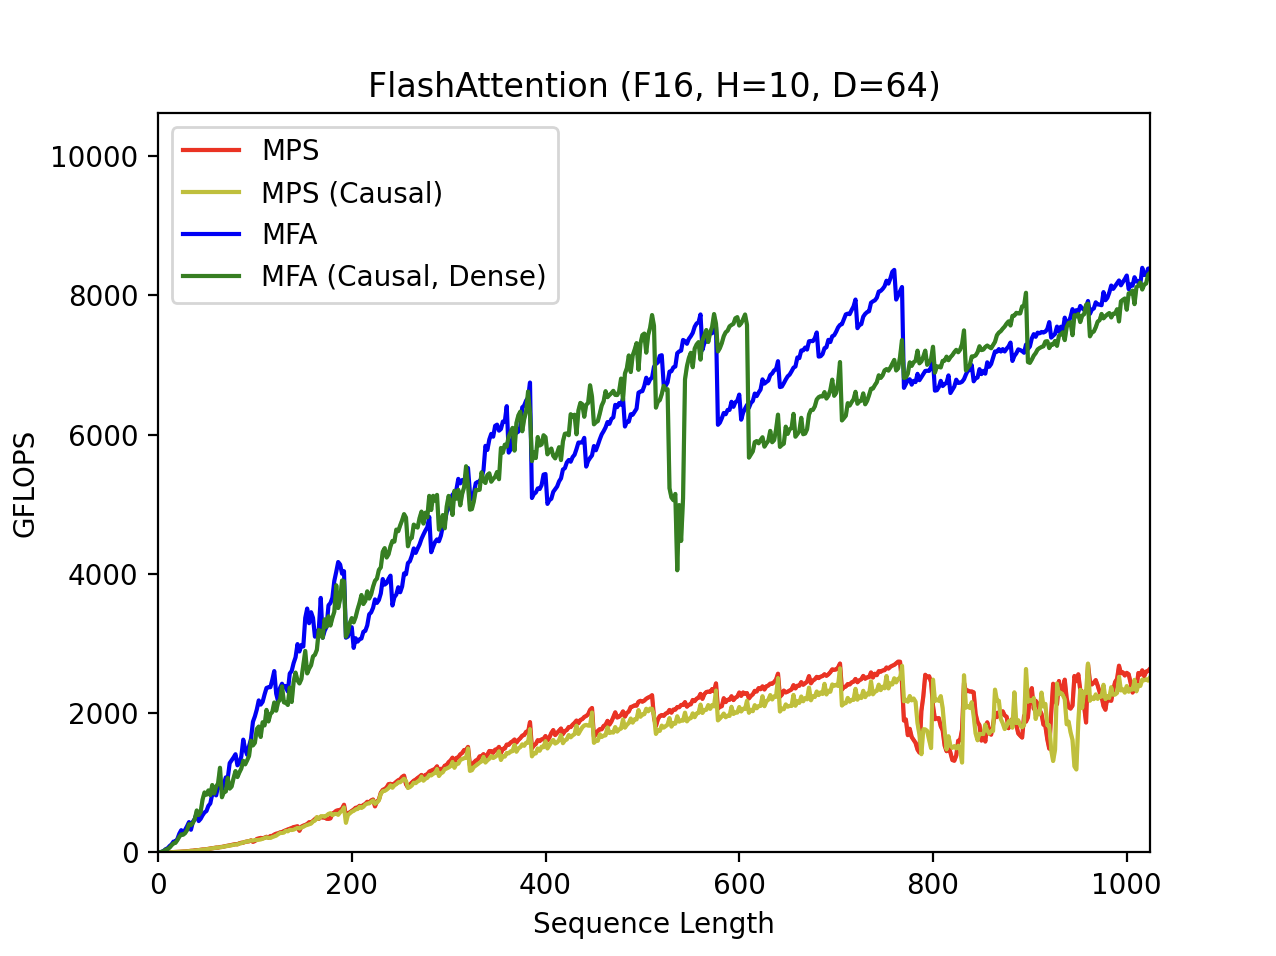
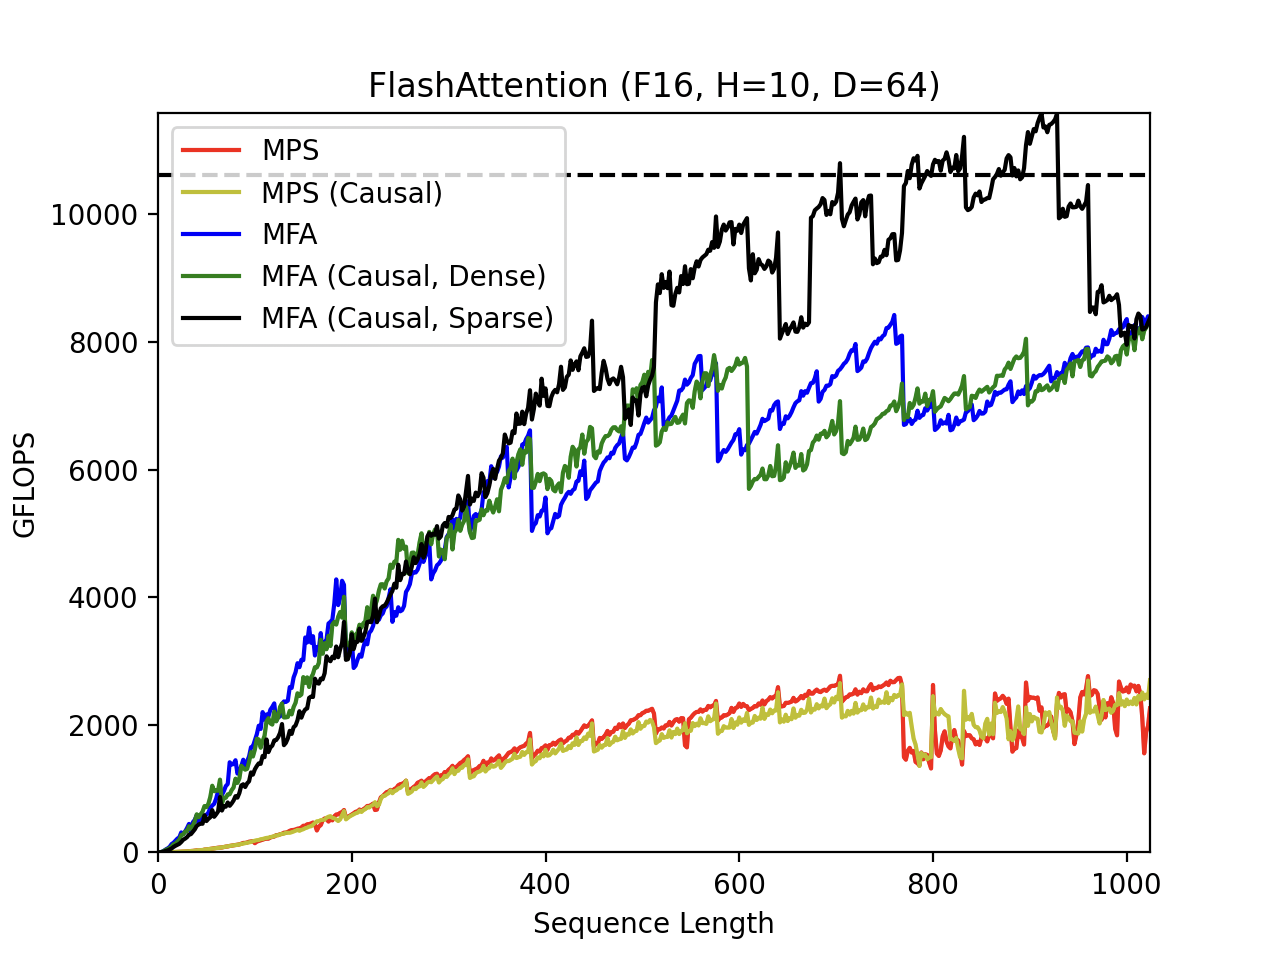
Add sparsity to the small sequences graph

diff --git a/Tests/Test Cases/AttentionPerfTests.swift b/Tests/Test Cases/AttentionPerfTests.swift
@@ -38,23 +38,24 @@ class AttentionPerfTests: MFATestCase {
     // For heads scaling:
     //   sequence length 4096
     
-    let duration = Duration(granularity: -1, length: 2)
+    let duration = Duration(granularity: 2, length: 2)
     let (domain, ranges) = rangeSequenceScaling(
       duration: duration, type: .causal)
 
     var backends = SequenceType.causal.backends
 //    let backends: [AttentionBackend] = [.mfa]
     
-    backends = backends.compactMap {
-      if $0.isMPS { return nil }
-      return $0
-    }
+//    backends = backends.compactMap {
+//      if $0.isMPS { return nil }
+//      return $0
+//    }
     
 //    let duration = Duration(granularity: 1, length: 1)
 //    let (domain, ranges) = rangeHeadScaling(duration: duration)
 //    let backends = [AttentionBackend.mps, AttentionBackend.mfa]
     testAttention(
-      domain: domain, ranges: ranges, backends: backends, config: .triangular)
+      domain: domain, ranges: ranges, backends: backends,
+      config: .none)
   }
   
   enum GraphConfig {
@@ -277,33 +278,33 @@ class AttentionPerfTests: MFATestCase {
     var domain: ClosedRange<Int>
     var parameters: [SIMD8<Int>]
     if type == .causal {
-      domain = 0...16384
+//      domain = 0...16384
 //      domain = 512...1024
-//      domain = 0...1024
+      domain = 0...1024
       parameters = [
-        SIMD8(   1,    8,   256, 1, 0, 0, 0, 0),
-        SIMD8(   8,  192,   256, 8, 0, 0, 0, 0),
-        SIMD8( 192,  256,   128, 8, 0, 0, 0, 0),
-        SIMD8( 256,  384,    64, 8, 0, 0, 0, 0),
-        SIMD8( 384,  512,    32, 8, 0, 0, 0, 0),
-        SIMD8( 512,  768,    16, 16, 0, 0, 0, 0),
-        SIMD8( 768, 1024,     8, 16, 0, 0, 0, 0),
-        SIMD8(1024, 1536,     4, 32, 0, 0, 0, 0),
-        SIMD8(1536, 2048,     2, 32, 8, 0, 0, 0),
-        SIMD8(2048, 3072,     2, 64, 8, 0, 0, 0),
-        SIMD8(3072, 4096,     2, 128, 8, 0, 0, 0),
-        SIMD8(4096, 6144,     2, 256, 8, 0, 0, 0),
-        SIMD8( 6 * 1024,  8 * 1024, 2, 512, 7, 0, 0, 0),
-        SIMD8( 8 * 1024, 12 * 1024, 2, 1024, 6, 0, 0, 0),
-        SIMD8(12 * 1024, 16 * 1024 + 1, 2, 2048, 5, 0, 0, 0),
+//        SIMD8(   1,    8,   256, 1, 0, 0, 0, 0),
+//        SIMD8(   8,  192,   256, 8, 0, 0, 0, 0),
+//        SIMD8( 192,  256,   128, 8, 0, 0, 0, 0),
+//        SIMD8( 256,  384,    64, 8, 0, 0, 0, 0),
+//        SIMD8( 384,  512,    32, 8, 0, 0, 0, 0),
+//        SIMD8( 512,  768,    16, 16, 0, 0, 0, 0),
+//        SIMD8( 768, 1024,     8, 16, 0, 0, 0, 0),
+//        SIMD8(1024, 1536,     4, 32, 0, 0, 0, 0),
+//        SIMD8(1536, 2048,     2, 32, 8, 0, 0, 0),
+//        SIMD8(2048, 3072,     2, 64, 8, 0, 0, 0),
+//        SIMD8(3072, 4096,     2, 128, 8, 0, 0, 0),
+//        SIMD8(4096, 6144,     2, 256, 8, 0, 0, 0),
+//        SIMD8( 6 * 1024,  8 * 1024, 2, 512, 7, 0, 0, 0),
+//        SIMD8( 8 * 1024, 12 * 1024, 2, 1024, 6, 0, 0, 0),
+//        SIMD8(12 * 1024, 16 * 1024 + 1, 2, 2048, 5, 0, 0, 0),
         
-//        SIMD4(granularity, 192, 256, granularity, 0, 0, 0, 0),
-//        SIMD4( 192,  256, 128, granularity, 0, 0, 0, 0),
-//        SIMD4( 256,  384,  64, granularity, 0, 0, 0, 0),
-//        SIMD4( 384,  512,  32, granularity, 0, 0, 0, 0),
+        SIMD8(granularity, 192, 256, granularity, 0, 0, 0, 0),
+        SIMD8( 192,  256, 128, granularity, 0, 0, 0, 0),
+        SIMD8( 256,  384,  64, granularity, 0, 0, 0, 0),
+        SIMD8( 384,  512,  32, granularity, 0, 0, 0, 0),
         
-//        SIMD4( 512,  768,  16, granularity, 0, 0, 0, 0),
-//        SIMD4( 768, 1025,   8, granularity, 0, 0, 0, 0),
+        SIMD8( 512,  768,  16, granularity, 0, 0, 0, 0),
+        SIMD8( 768, 1025,   8, granularity, 0, 0, 0, 0),
       ]
     } else if type == .small {
       domain = 0...2048

diff --git a/Tests/Test Cases/MFATestCase.swift b/Tests/Test Cases/MFATestCase.swift
@@ -10,7 +10,7 @@ import Foundation
 class MFATestCase {
   // Global setting for the precision used in tests.
   #if arch(arm64)
-  typealias Real = Float32
+  typealias Real = Float16
   #else
   typealias Real = Float
   #endif

diff --git a/README.md b/README.md
@@ -189,15 +189,15 @@ Dense: Stable Diffusion 2 outermost attention layer @ 512x512 (sequence length =
 
 ![FlashAttention (F16, H=5, D=64)](./CI/float16-large-sequences-latest.png)
 
-### Float32 Sequence Scaling (Causal Mask)
-
-![FlashAttention (F32, H=10, D=64)](./CI/float32-large-causal-latest.png)
-
 ### Float16 Sequence Scaling (Causal Mask)
 
 ![FlashAttention (F16, H=10, D=64)](./CI/float16-small-causal-latest.png)
 
 ![FlashAttention (F16, H=10, D=64)](./CI/float16-large-causal-latest.png)
+
+### Float32 Sequence Scaling (Causal Mask)
+
+![FlashAttention (F32, H=10, D=64)](./CI/float32-large-causal-latest.png)
 
 ### Float16 Head Scaling
 
